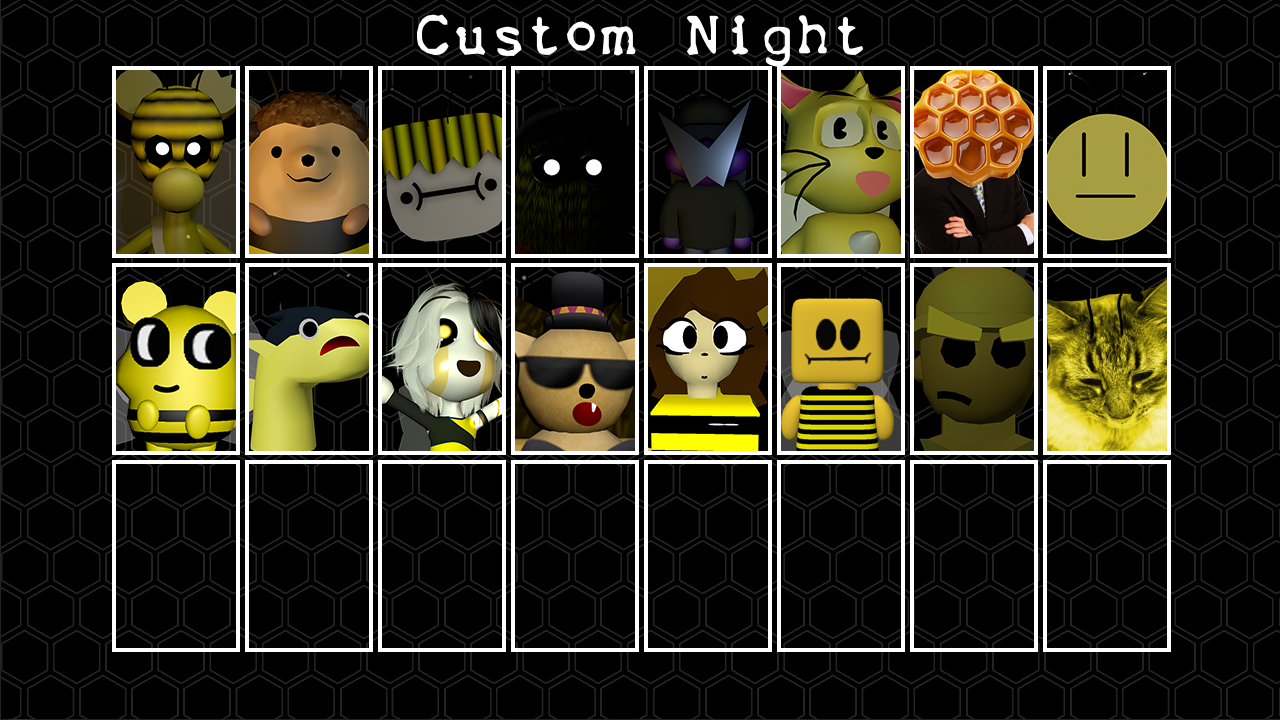
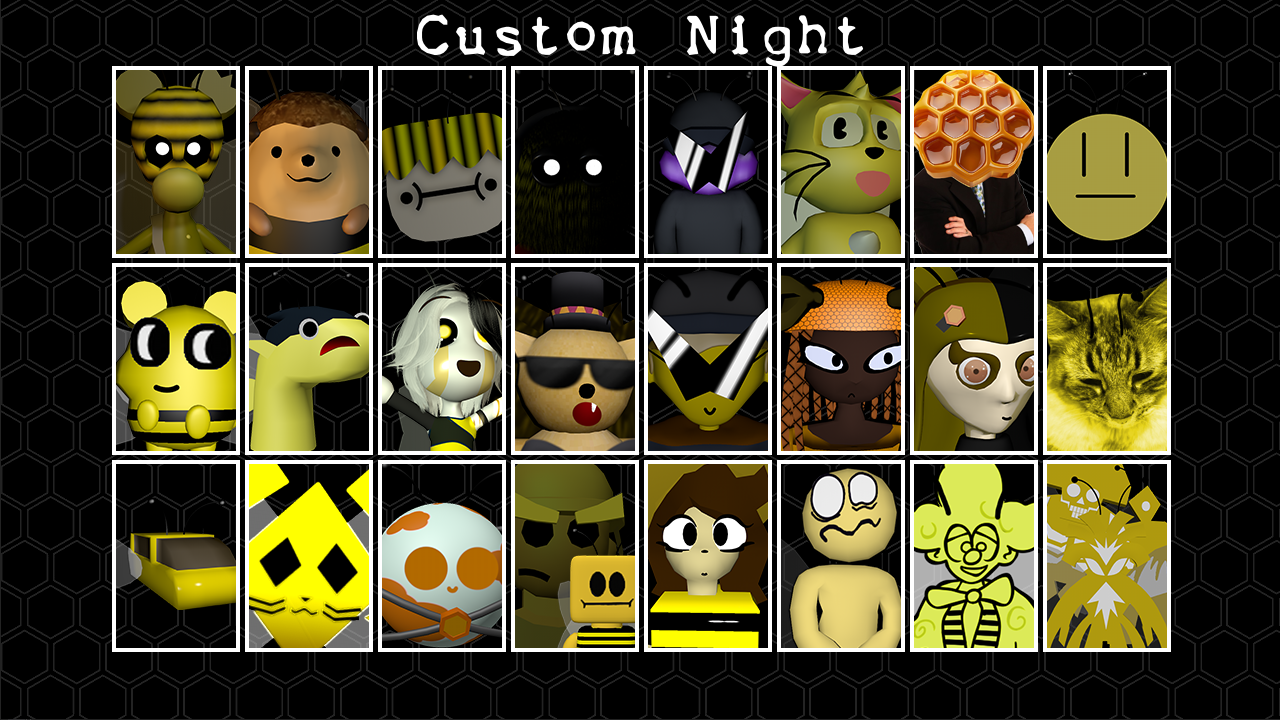
THE FINAL ROSTER UPDATE

Changed region(s): [[0.0938, 0.1222, 0.9375, 0.9167]]

diff --git a/funkybees.html b/funkybees.html
@@ -29,6 +29,8 @@
 <body>
     <img src="assets/funkybees/logo.png" class="center">
     <img src="assets/funkybees/cn1.png" class="center_image">
+    <br>
+    <img src="assets/funkybees/extra.png" class="center_image">
     <p><br>haiiii :DDD</p>
 </body>
 </html>
